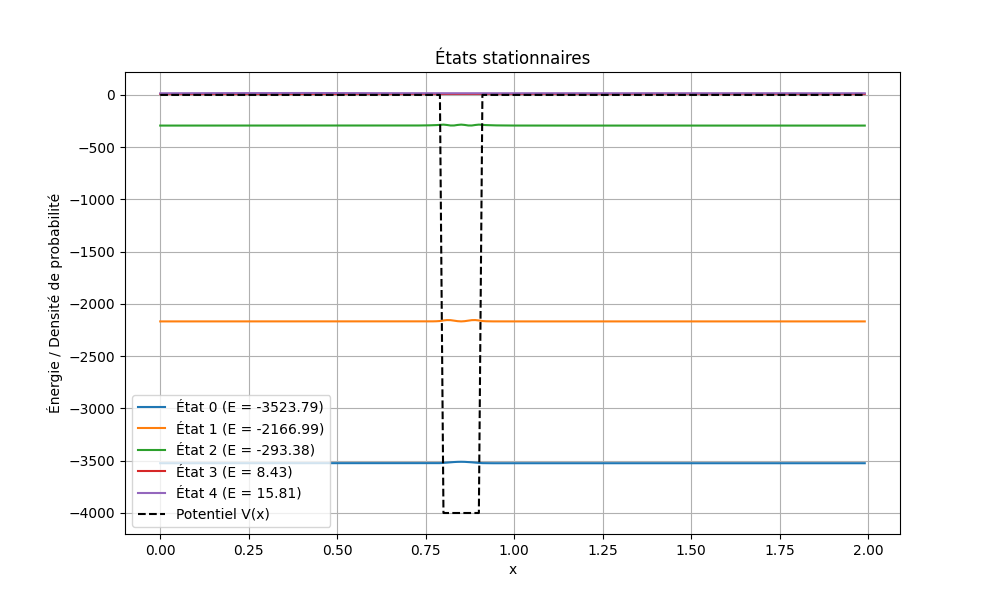
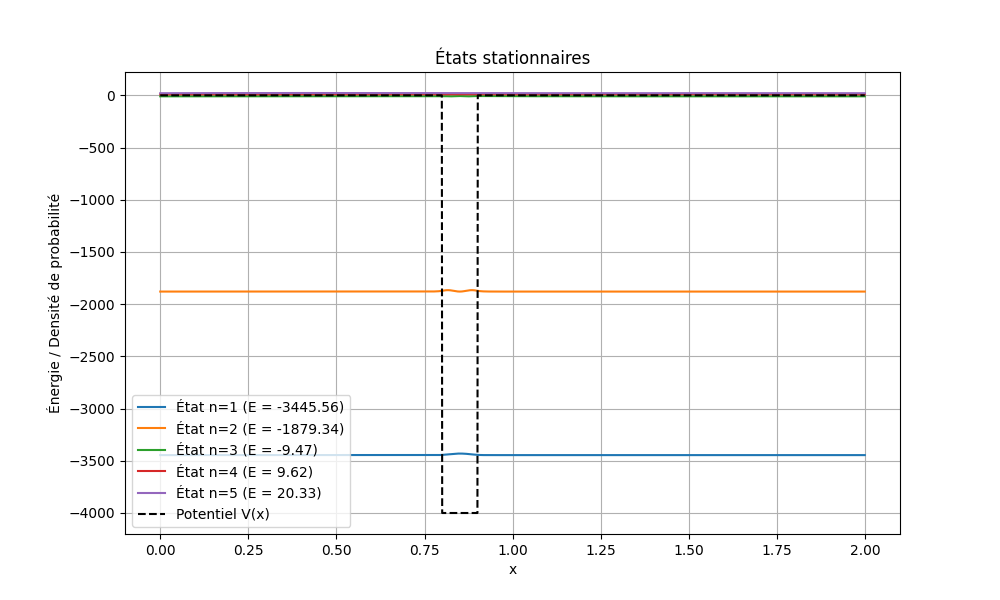
update

diff --git a/main.py b/main.py
@@ -73,7 +73,7 @@ else:
 
 
 dt = 1E-7
-dx = 0.01
+dx = 0.001
 nt = 90000
 xc = 0.6
 sigma = 0.05
